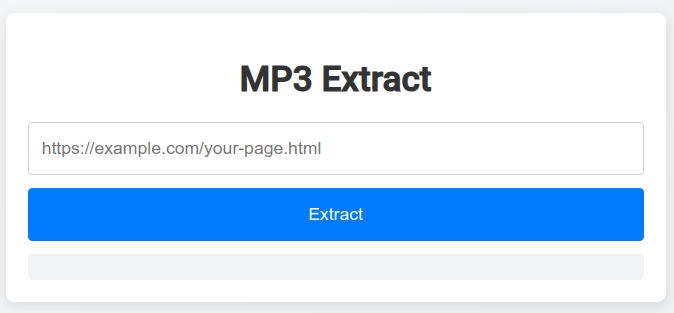
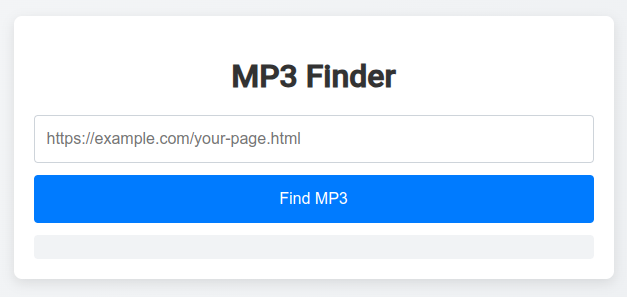
Rename project from "MP3 Extract" to "MP3 Finder" in HTML interface

diff --git a/src/index.html b/src/index.html
@@ -4,7 +4,7 @@
     <meta charset="utf-8" />
     <!-- Ensure proper mobile scaling -->
     <meta name="viewport" content="width=device-width, initial-scale=1.0" />
-    <title>MP3 Extract</title>
+    <title>MP3 Finder</title>
     <!-- Google Font for a modern look -->
     <link rel="preconnect" href="https://fonts.googleapis.com" />
     <link rel="preconnect" href="https://fonts.gstatic.com" crossorigin />
@@ -108,14 +108,14 @@
   </head>
   <body>
     <div class="container">
-      <h1>MP3 Extract</h1>
+      <h1>MP3 Finder</h1>
       <div id="form-container">
         <input
           type="text"
           id="urlField"
           placeholder="https://example.com/your-page.html"
         />
-        <button id="fetchBtn" onclick="processURL()">Extract</button>
+        <button id="fetchBtn" onclick="processURL()">Find MP3</button>
       </div>
       <div id="message"></div>
       <div id="result"></div>
